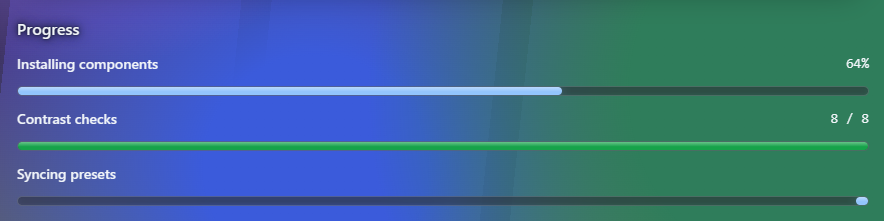
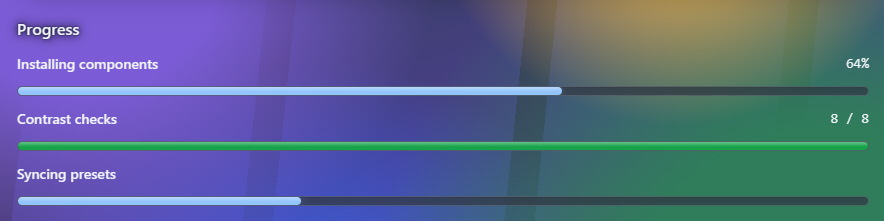
docs(evidence): record the glass display review fixes and retake the Progress screenshots

diff --git a/docs/evidence/glass-display.md b/docs/evidence/glass-display.md
@@ -12,10 +12,10 @@ Branch `feat/glass-display`. Windows 11, Node v24.19.0, pnpm 11.25.0 (through co
 | --- | --- |
 | `corepack pnpm build:packages` | passed |
 | `corepack pnpm typecheck` | passed |
-| `corepack pnpm test:unit` (`VITEST_MAX_WORKERS=4`) | 119 files, 1118 tests passed, including `packages/cli/test/transaction.test.ts` and the untouched `packages/compiler/test/stable-families.test.ts` |
+| `corepack pnpm test:unit` (`VITEST_MAX_WORKERS=4`) | 119 files, 1119 tests passed (after the review fixes below), including `packages/cli/test/transaction.test.ts` and the untouched `packages/compiler/test/stable-families.test.ts` |
 | `tests/integration/preset-gallery-generation`, `preview-routing`, `hosted-preview-build`, `liquid-glass-cli`, `www-route` | 5 files, 35 tests passed |
 | `node scripts/build-hosted-preview.mjs` | passed |
-| Playwright screenshots, light and dark, on the kit backdrop | 15 captures, reviewed against the kit tiles; one difference fixed (below) |
+| Playwright screenshots, light and dark, on the kit backdrop | 15 captures, reviewed against the kit tiles; one difference fixed (below). The two Progress captures were retaken after the review fixes |
 
 No test is skipped: the refusal cases that needed an unavailable glass component were rewritten (see below). Earlier task runs on this branch saw `packages/cli/test/transaction.test.ts` fail with "Cannot locate a pnpm JavaScript entry", an environmental locator error unrelated to these changes; in this run it passed.
 
@@ -71,7 +71,7 @@ A selected row and an open trigger set `--glass-tint` and `--glass-tint-amount`,
 | Separator on the bare backdrop | (none) | The label has no surface, as in the kit; it reads on the gallery backdrop, but its contrast there is not bounded | None (ruling C-4) |
 | Table | Table | Container, header, hairlines, selected row and numeric alignment match. Numeric headers were sans 12px; the kit sets them in 13px monospace | Fixed: `fix(catalog): set numeric glass table headers in monospace figures, as the kit does` |
 | Accordion | Accordion | Container, hairlines, 15px / 600 triggers at 44px, open tint and turned chevron match | None |
-| Progress | Progress | Track, glossy fill, glow and green complete fill match | None |
+| Progress | Progress | Glossy fill, glow and green complete fill match. The track painted at half the glass opacity, but the kit's 50% track is its full glass opacity (0.5) | Fixed in the review fixes: the track paints at the glass opacity (0.57 alpha in the browser, from 0.285) |
 | Skeleton | Skeleton | Frosted film, sheen and rim; text, circle and block shapes match | None |
 
 Differences judged acceptable, each from a recorded ruling or an earlier PR:
@@ -83,6 +83,16 @@ Differences judged acceptable, each from a recorded ruling or an earlier PR:
 - **Glass is a little denser and `primary` is blue**, from the built-in preset (opacity 0.57, tuned in PR B) rather than the kit's demo values.
 - **The gallery shows Progress, Skeleton and the bare Separator on the backdrop**, not inside a glass card as in the kit tiles, so they show their top-level coverage.
 - **The selection tint is a literal 12%** in two stylesheets, not a token, so `ui-tokens.css` does not change; the compiler tests pin both the CSS value and `glassTints.selection`.
+
+## Review fixes
+
+The whole-branch review found, and this branch fixes:
+
+- **Reduced transparency, from PRs A and B (unreleased).** With `transparency: "reduced"` the bound evaluates every pair opaque, but covered surfaces read `--glass-inner-opacity` before their `calc(var(--glass-opacity) * k)` fallback (k 0.55, 0.6, 0.78, 0.8, 0.85), so fields, the outline Button, checked rows and controls and the switch track stayed translucent over an unfiltered backdrop; the review measured seven pairs below 4.5:1, such as the dark placeholder at 3.38:1. A reduced preset's tokens now set `--glass-inner-opacity: 1`, `--glass-inner-filter: none` and `--glass-film-backing: 1` (`--glass-nested-opacity` is already 1), and the Skeleton film reads the backing, so it is opaque over `card` without its sheen. `packages/compiler/test/liquid-glass.test.ts` resolves every glass `background` of a reduced compile, at top level and nested, light and dark, and checks that each coverage is 1, each sheen 0 and each filter `none`. The built-in preset's `ui-tokens.css` and its bound (0.57; nested 0.69 and 0.92) are unchanged; only `progress.css` (the track below) and `skeleton.css` (same painted film when unset) change bytes.
+- **Progress track** at the full glass opacity, as the kit (see the visual review).
+- Stale "unavailable in glass" statements in the README, local usage, Tabs, Tooltip, readiness and delivery-plan docs and the changelog; the scenario comment that carried the fixture token; `*.tsbuildinfo` ignored; two test titles and assertions.
+
+The reduced-transparency path was checked by compiler tests, not in the browser.
 
 ## Screenshots
 
